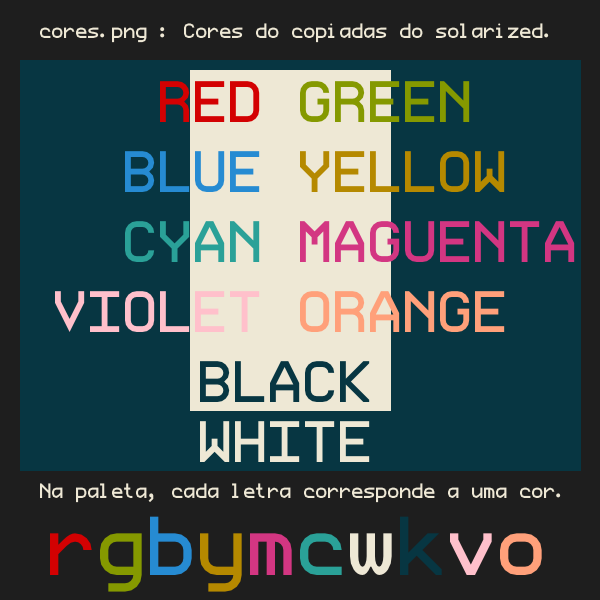
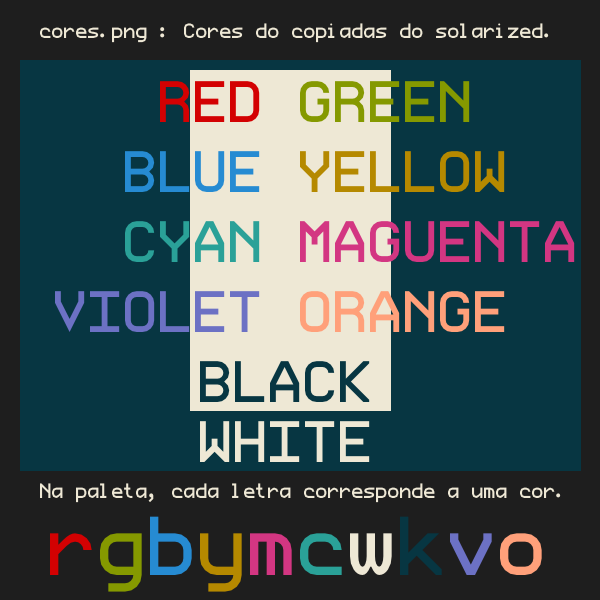
versao 0.4

Changed region(s): [[0.09, 0.48, 0.45, 0.57], [0.75, 0.87, 0.84, 0.96]]

diff --git a/xpaint.h b/xpaint.h
@@ -16171,7 +16171,7 @@ XColor CYAN      = {42 , 161, 152};
 XColor MAGENTA   = {211, 54 , 130};
 XColor ORANGE    = {255, 160, 122};
 XColor WHITE     = {238, 232, 213};
-XColor VIOLET    = {255, 192, 203};
+XColor VIOLET    = {108, 113, 196};
 
 
 /* Definicoes das funcoes da biblioteca */

diff --git a/libs/ximage.c b/libs/ximage.c
@@ -30,7 +30,7 @@ XColor CYAN      = {42 , 161, 152};
 XColor MAGENTA   = {211, 54 , 130};
 XColor ORANGE    = {255, 160, 122};
 XColor WHITE     = {238, 232, 213};
-XColor VIOLET    = {255, 192, 203};
+XColor VIOLET    = {108, 113, 196};
 
 
 /* Definicoes das funcoes da biblioteca */
